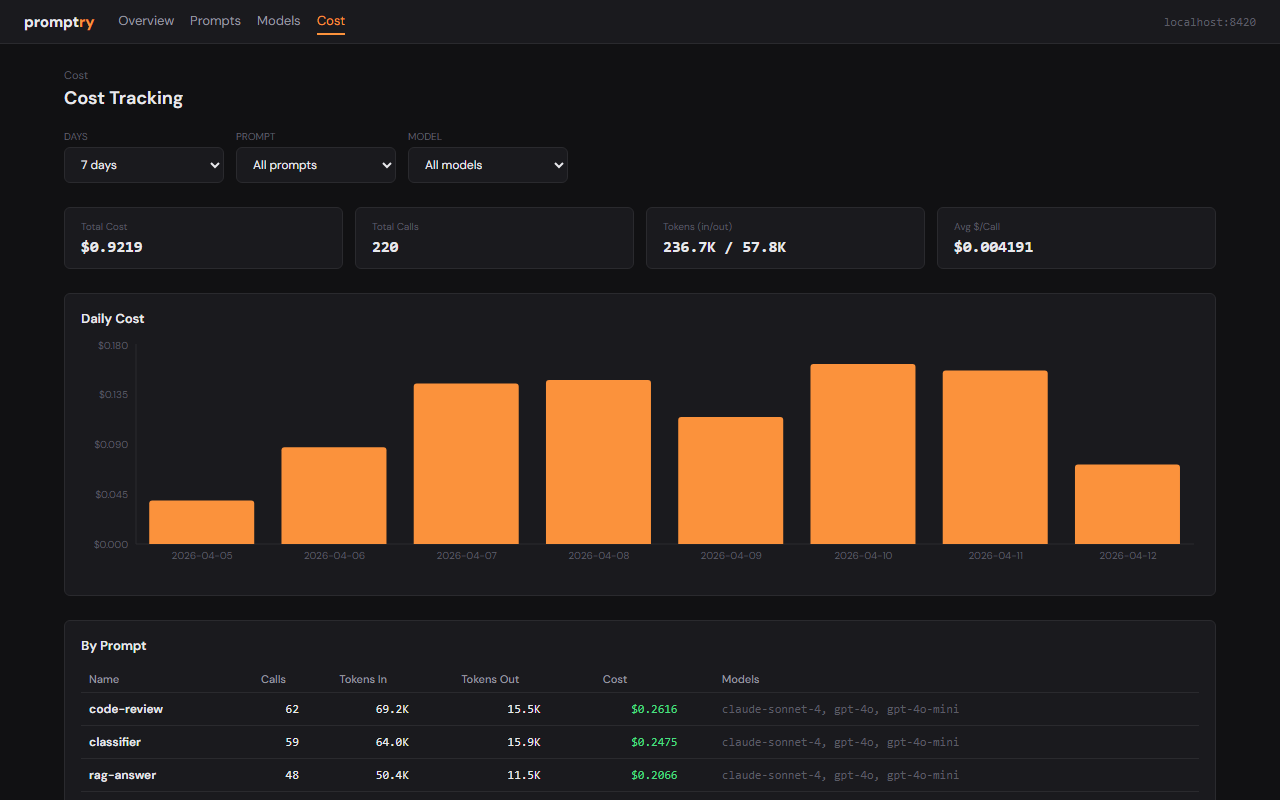
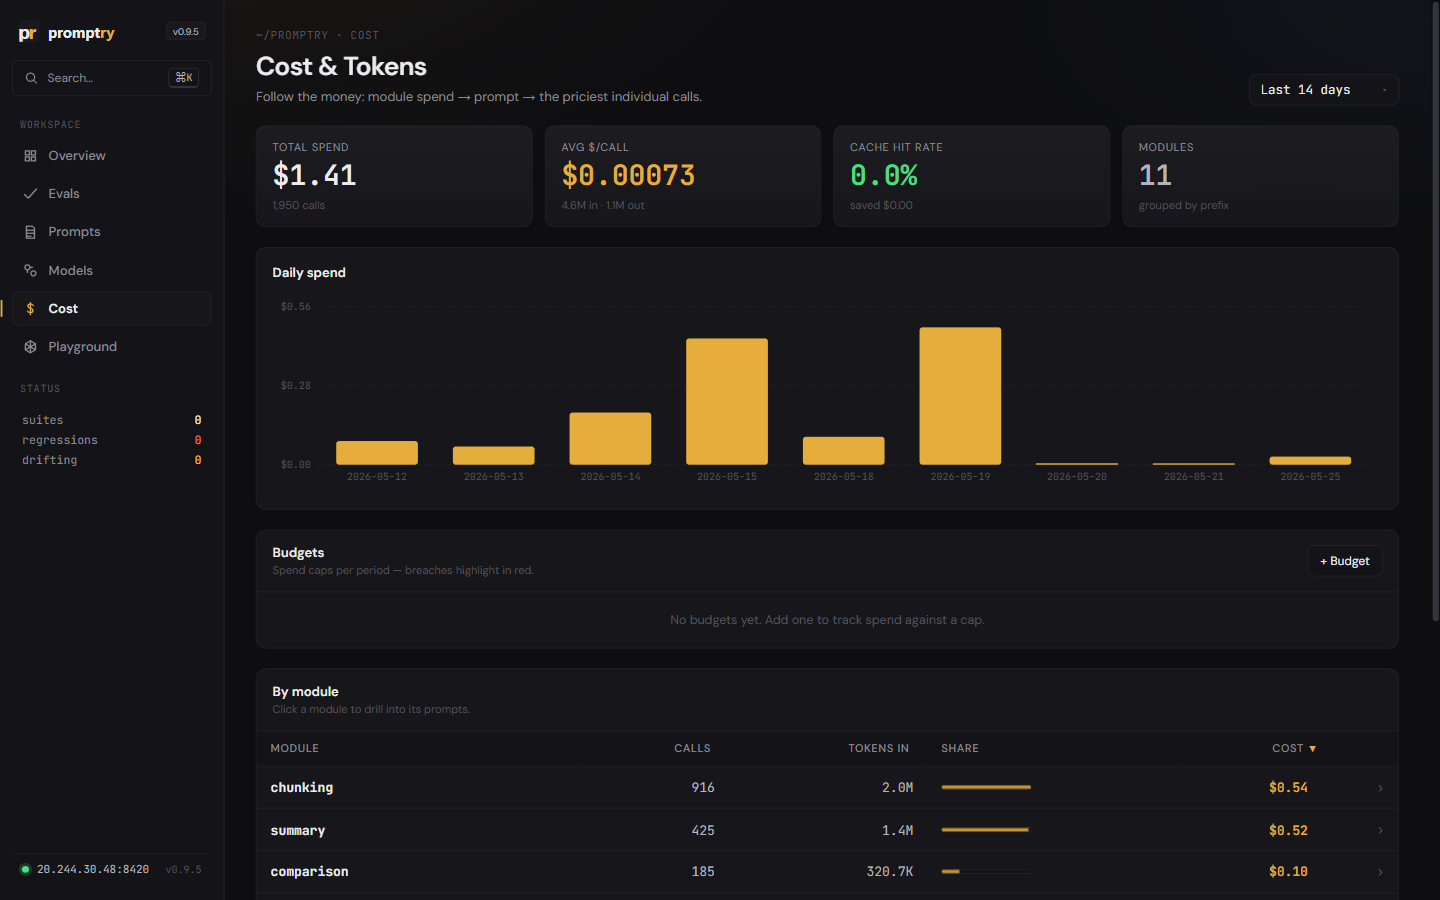
docs: refresh README for shipped features + update dashboard screenshots
README: move shipped items (capture, prompt CMS, env promotion, budgets,
regression bisect, feedback ingest, cost-by-module) out of roadmap into
features; broaden tagline to local-first observability; refresh dashboard
section. Replace stale April screenshots with current UI (overview,
prompts, prompt-detail, cost, invocation, playground).

diff --git a/README.md b/README.md
@@ -6,7 +6,7 @@
 [![Python 3.10+](https://img.shields.io/badge/python-3.10%2B-blue)](https://python.org)
 [![License: MIT](https://img.shields.io/badge/license-MIT-green)](LICENSE)
 
-**LLM regression testing that lives in your repo.** Version your prompts, write eval suites in Python, run them in CI. One `pip install`, one SQLite file, zero services — your prompts never leave your laptop.
+**Local-first prompt observability that lives in your repo.** Version your prompts, write eval suites in Python, track the cost of every call, edit prompts live, and catch regressions in CI. One `pip install`, one SQLite file, zero services — your prompts never leave your laptop.
 
 ```python
 from promptry import track, suite, assert_semantic
@@ -58,17 +58,23 @@ Overall: PASS  score: 0.891
 
 | Feature | What it does |
 |---------|--------------|
-| **Prompt versioning** | Content-hashed, automatic dedup. No manual bumps, no YAML, no git dance. |
+| **Prompt versioning** | Content-hashed, automatic dedup, grouped by module. No manual bumps, no YAML, no git dance. |
+| **Live prompt CMS** | `render_prompt()` serves dashboard-edited `$`-placeholder templates with no redeploy. Edit a prompt in the browser, your app picks it up on the next call. |
+| **Environment promotion** | dev → staging → prod tags gate every edit before it reaches users. Promote a version, roll one back. |
 | **Python-native suites** | `@suite` decorators, not YAML. Loops, fixtures, and your IDE's debugger all work. |
 | **Deterministic assertions** | Semantic, schema, JSON, regex, grounding, tool-use. Zero API calls at CI time. |
 | **LLM-as-judge** | Opt-in, not default. You decide when to spend tokens on evaluation. |
 | **Drift detection** | Mann-Whitney U on a rolling window with real p-values, not vibes. |
 | **Regression diff** | Tells you *what* changed — prompt version, model, or data — not just that it broke. |
+| **Regression bisect** | Walks the run history to pinpoint the first run that broke a test. |
 | **Model comparison** | Statistical comparison against the historical baseline, not snapshot-to-snapshot. |
-| **Cost tracking** | Per-token cost per prompt across OpenAI, Anthropic, Gemini, Grok — with cache awareness. |
+| **Invocations ledger** | Every call recorded: tokens, cost, latency, model. Opt-in sampled request/response trace capture; per-call ratings/feedback via `POST /api/feedback`. |
+| **Cost tracking** | Per-model pricing with module → prompt → call drill-down, per-call template-vs-payload split, and a coverage check that flags un-priced models. Cache-aware, across OpenAI, Anthropic, Gemini, Grok. |
+| **Budgets** | Daily and monthly spend caps with breach alerts. |
 | **Safety suite** | 25 jailbreak / injection / PII / encoding templates across 6 categories. Extensible via `templates.toml`. |
 | **MCP server** | First-class: your LLM agent drives the whole test runner. Native, not a plugin. |
-| **Dashboard** | Local web UI for eval history, prompt diffs, model comparison, cost. No account, no cloud. |
+| **Dashboard** | Local web UI for eval history, prompt registry + live editing, cost drill-down, model comparison, invocation traces, and a multi-model playground. No account, no cloud. |
+| **Project config** | Committable `.promptry/config.toml` (models, judge, dashboard prefs, pricing overrides). API keys via env. |
 | **JS/TS client** | Ship prompt events from frontend/Node apps to the same SQLite store. |
 
 ## Dashboard
@@ -78,11 +84,23 @@ pip install promptry[dashboard]
 promptry dashboard
 ```
 
+Eval health and spend at a glance — drill into evals or cost for detail.
 ![Overview](docs/screenshots/dashboard-overview.png)
-![Suite Detail](docs/screenshots/dashboard-suite-detail.png)
+
+The prompt registry, grouped by module. Click any prompt to inspect versions, diffs, and stats.
 ![Prompts](docs/screenshots/dashboard-prompts.png)
-![Models](docs/screenshots/dashboard-models.png)
+
+A prompt detail view: edit the live `$`-placeholder template, with variable pills and promotion tags.
+![Prompt detail](docs/screenshots/dashboard-prompt-detail.png)
+
+Cost, drilled module → prompt → the priciest individual calls.
 ![Cost](docs/screenshots/dashboard-cost.png)
+
+A single call, broken into fixed template overhead vs the variable payload you fed in.
+![Invocation](docs/screenshots/dashboard-invocation.png)
+
+The playground: render a prompt and compare it across models before promoting to a suite.
+![Playground](docs/screenshots/dashboard-playground.png)
 
 ## Why promptry
 
@@ -99,7 +117,9 @@ Three things you won't get elsewhere — together, in one tool:
 | **Account required** | No | No | **Yes** | No (for OSS) | **No, ever** |
 | **CI cost per run** | Mixed | **Per-judge-call** | Trace volume | **Per-judge-call** | **$0 (deterministic)** |
 | **Prompt versioning** | Manual + git | None | Prompt Hub | None | **Automatic content-hash** |
+| **Live prompt editing** | None | None | Prompt Hub (cloud) | None | **Dashboard, no redeploy** |
 | **Drift detection** | None | None | Dashboards only | None | **Mann-Whitney U + p-values** |
+| **Cost budgets + alerts** | None | None | Usage charts only | None | **Daily/monthly caps** |
 | **MCP server** | Plugin | None | None | Partial | **Native** |
 | **Commercial tier** | Promptfoo Enterprise | None | LangSmith (SaaS) | Confident AI | **None planned** |
 
@@ -170,9 +190,11 @@ The [full guide](docs/guide.md) covers all assertions, cost tracking, model comp
 
 ## Scope
 
-Promptry is a test runner, not a tracing product. If you need an always-on observability dashboard for production traffic with team seats and SSO, use LangSmith or Arize — different product category. Promptry is the thing you wire into CI so a bad prompt change never reaches production in the first place.
+Promptry is local-first by design. If you need a hosted, always-on observability product for production traffic with team seats and SSO, use LangSmith or Arize — different product category. Promptry runs against one SQLite file on your machine: wire it into CI so a bad prompt change never reaches production, manage your live prompts from the dashboard, and keep a per-call ledger of cost and traces without sending anything to a vendor.
 
-On the roadmap: agent trajectory analysis, production capture/replay, LLM-powered root cause. Shipped: everything in the feature table above, across Python + JS + CLI + dashboard + MCP + GitHub Action.
+Shipped: everything in the feature table above, across Python + JS + CLI + dashboard + MCP + GitHub Action — including the live prompt CMS with environment promotion, the per-call invocations ledger with opt-in request/response capture and feedback ingest, cost-by-module drill-down with budgets, and regression bisect.
+
+On the roadmap: agent trajectory analysis and LLM-powered root cause.
 
 ## License
 
